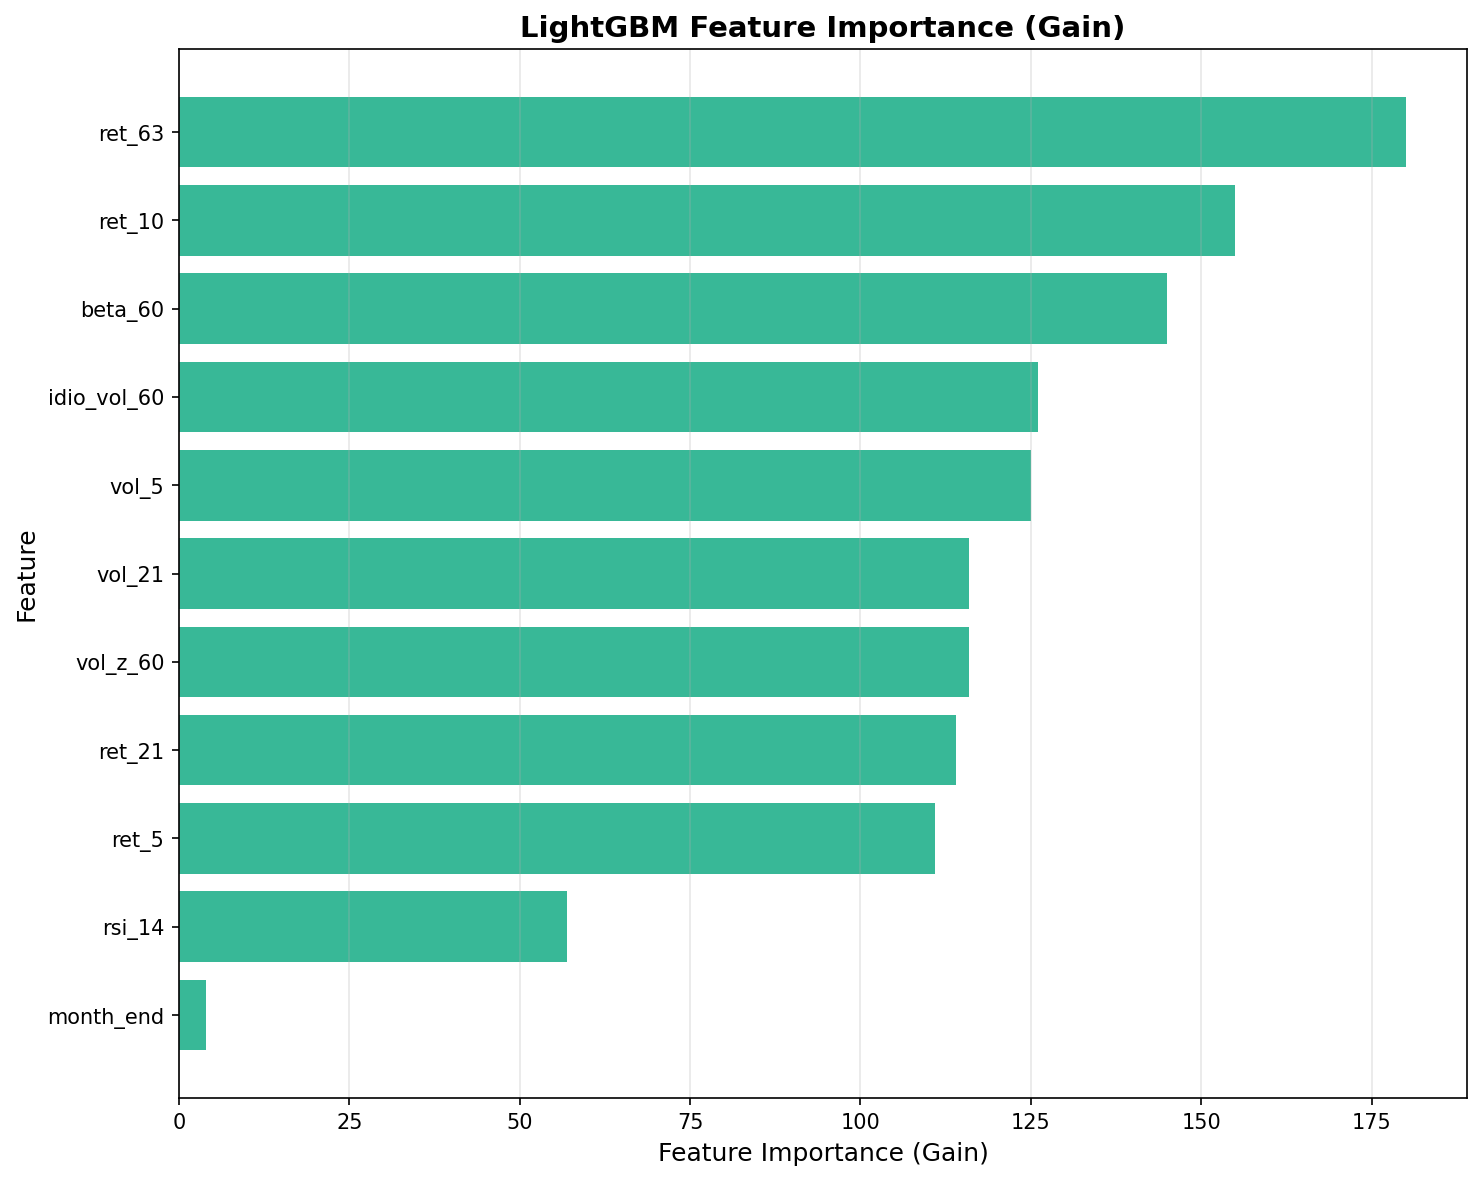
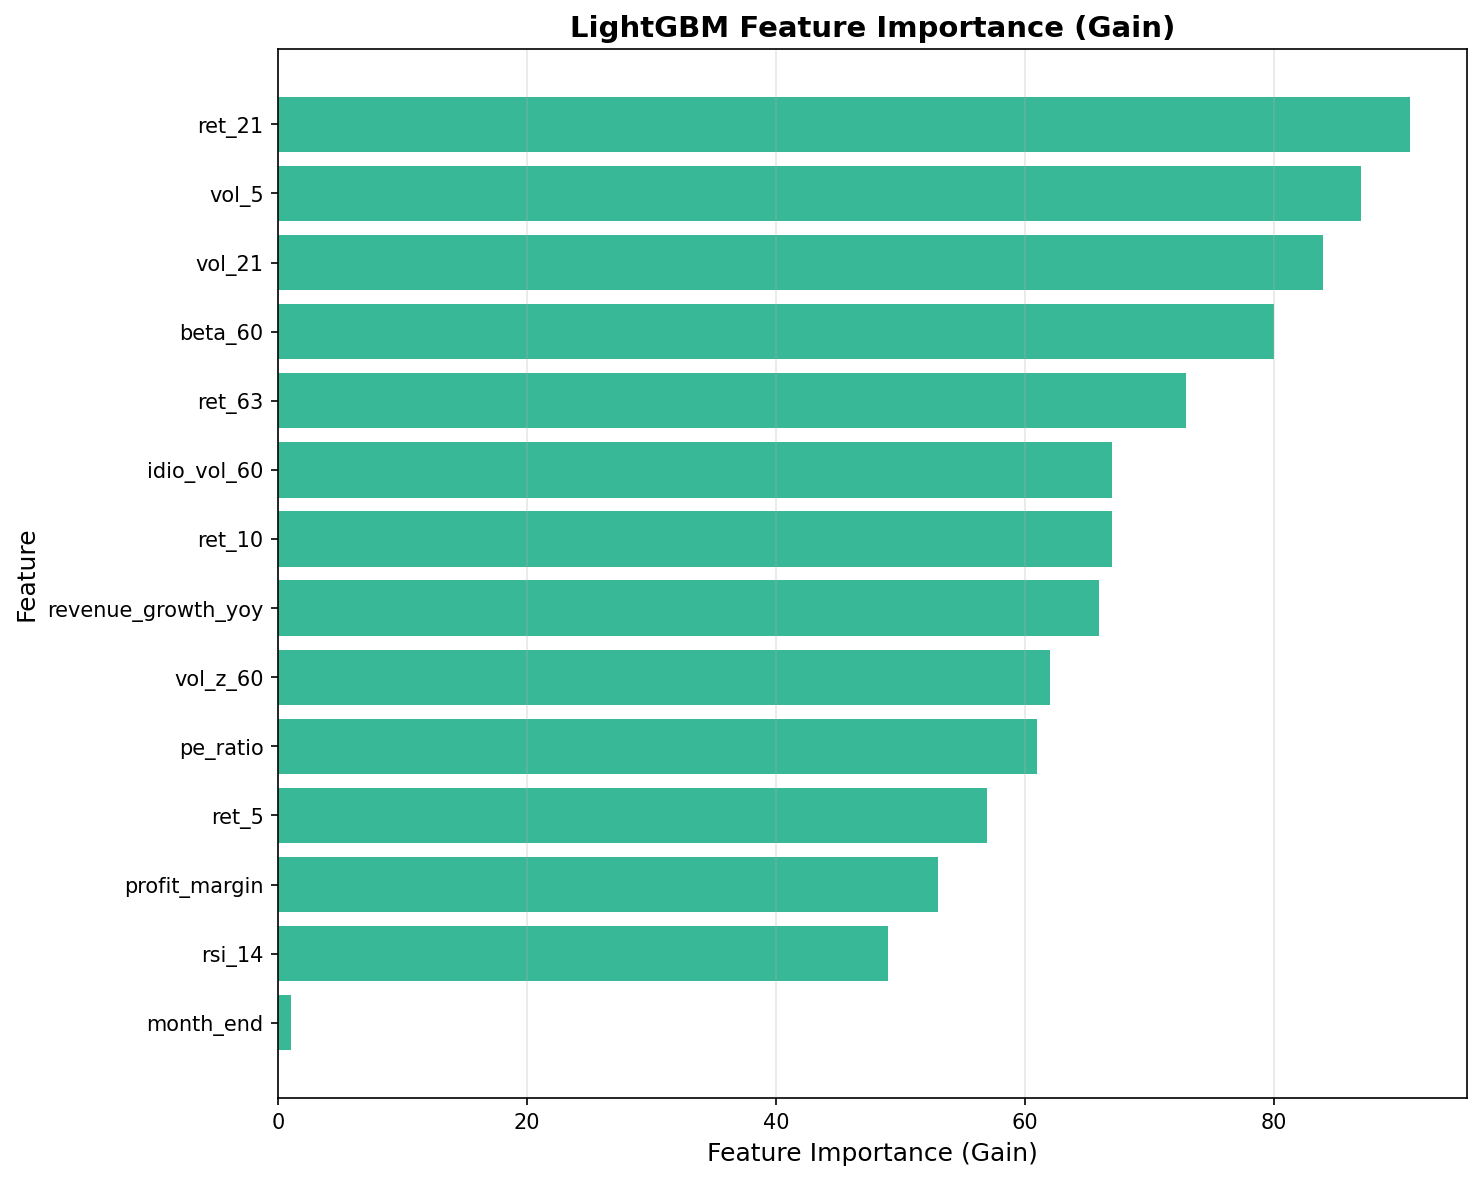
feat(features): add real fundamental data from yfinance

diff --git a/src/features/fundamentals.py b/src/features/fundamentals.py
@@ -1,60 +1,151 @@
 import pandas as pd
-from pathlib import Path
+import numpy as np
+import yfinance as yf
+from datetime import datetime, timedelta
 
-def load_fundamentals_csv(path):
+def download_fundamentals(tickers, start_date, end_date):
     """
-    Load fundamentals CSV if it exists. Returns empty DataFrame if not.
-    Expeceted columns: data, ticker, gm, om, rev_ttm_yoy, eps_ttm_yoy, market_cap
+    Download quarterly fundamental data from Yahoo Finance.
+    Returns: DataFrame with P/E, profit margin, revenue growth per ticker per quarter
     """
+    print(f"Downloading fundamentals for {len(tickers)} tickers...")
 
-    if not path.exists():
-        return pd.DataFrame()   # Return empty if no fundamentals file
+    all_fundamentals = []
     
-    df = pd.read_csv(path, parse_dates = ['date'])
-    return df[['date', 'ticker', 'gm', 'om', 'rev_ttm_yoy', 'eps_ttm_yoy', 'market_cap']]
-
-def align_fundamentals_to_prices(fund_df, daily_index, tickers):
-    """
-    Forward-fill fundamentals onto daily price grid.
-    Fundamentals are reported quarterly but we need them daily.
-    """
-
-    if fund_df.empty:
-        # No fundamentals: return empty DataFrame with correct structure
-        return pd.DataFrame(index=pd.MultiIndex.from_product(
-            [daily_index, tickers], names = ['date', 'ticker']))
+    for i, ticker in enumerate(tickers):
+        if (i + 1) % 10 == 0:
+            print(f"Progress: {i+1}/{len(tickers)} tickers...")
         
-    # Set MultiIndex (date, ticker) and sort
-    fund_df = fund_df.set_index(['date', 'ticker']).sort_index()
+        try:
+            # Download stock data
+            stock = yf.Ticker(ticker)
+            
+            # Get quarterly financials (income statement and balance sheet)
+            quarterly_financials = stock.quarterly_financials
+            quarterly_balance = stock.quarterly_balance_sheet
+            
+            if quarterly_financials is None or quarterly_balance.empty:
+                continue
+            
+            # Get quarterly info (has trailing P/E)
+            info = stock.info
+            
+            # Extract key metrics for each available quarter
+            for date in quarterly_financials.columns:
+                # Get revenue and net income
+                revenue = quarterly_financials.loc['Total Revenue', date] if 'Total Revenue' in quarterly_financials.index else np.nan
+                net_income = quarterly_financials.loc['Net Income', date] if 'Net Income' in quarterly_financials.index else np.nan
+                
+                # Calculate profit margin = net income / revenue
+                profit_margin = (net_income / revenue) if (revenue and not pd.isna(revenue) and revenue != 0) else np.nan
 
-    # Forward-fill by ticker: each ticker's fundamentals stay constant until next report
-    fund_df = fund_df.groupby(level = 'ticker').ffill()
+                # For revenue growth, we need to compare to same quarter last year (YoY)
+                # Find the date 4 quarters ago (1 year)
+                try:
+                    dates_list = list(quarterly_financials.columns)
+                    current_idx = dates_list.index(date)
+                    
+                    # Get revenue from 4 quarters ago (year-over-year comparison)
+                    if current_idx + 4 < len(dates_list):
+                        prev_year_date = dates_list[current_idx + 4]
+                        prev_revenue = quarterly_financials.loc['Total Revenue', prev_year_date] if 'Total Revenue' in quarterly_financials.index else np.nan
+                        
+                        # Calculate YoY revenue growth rate
+                        revenue_growth = (revenue - prev_revenue) / prev_revenue if (prev_revenue and not pd.isna(prev_revenue) and prev_revenue != 0) else np.nan
+                    else:
+                        revenue_growth = np.nan
+                except:
+                    revenue_growth = np.nan
+                
+                # Get P/E ratio from stock info (trailing 12 months)
+                pe_ratio = info.get('trailingPE', np.nan) if info else np.nan
 
-    #Reindex to match daily price grid (will have NaNs for dates before first report)
-    return fund_df.reindex(
-        pd.MultiIndex.from_product([daily_index, tickers], names = ['date', 'ticker']))
-
-
-def build_fundamental_features(fund_df):
-    """
-    Normalize fundamental features using same cross-sectional z-score approach.
-    """
-
-    if fund_df.empty:
-        return fund_df
+                # Store the data point
+                all_fundamentals.append({
+                    'date': pd.to_datetime(date),
+                    'ticker': ticker,
+                    'profit_margin': profit_margin,
+                    'revenue_growth_yoy': revenue_growth,
+                    'pe_ratio': pe_ratio
+                })
+        
+        except Exception as e:
+            # If download fails for this ticker, skip it
+            print(f"Could not download {ticker}: {str(e)[:50]}")
+            continue
     
-    # Select numeric columns and apply per-date winsorization + z-score
-    numeric_cols = ['gm', 'om', 'rev_ttm_yoy', 'eps_ttm_yoy', 'market_cap']
+    # Convert to DataFrame
+    fundamentals_df = pd.DataFrame(all_fundamentals)
+    
+    if fundamentals_df.empty:
+        print("No fundamental data downloaded")
+        return pd.DataFrame()
+    
+    # Force convert all numeric columns to float (fixes "object" dtype issue)
+    numeric_cols = ['profit_margin', 'revenue_growth_yoy', 'pe_ratio']
     for col in numeric_cols:
-        if col in fund_df.columns:
-            # Per-date winsorization
-            lower = fund_df.groupby(level = 'date')[col].transform(lambda x: x.quantile(0.01))
-            upper = fund_df.groupby(level = 'date')[col].transform(lambda x: x.quantile(0.99))
-            fund_df[col] = fund_df[col].clip(lower = lower, upper = upper)
+        fundamentals_df[col] = pd.to_numeric(fundamentals_df[col], errors='coerce')
+    
+    # Drop rows where ALL fundamentals are NaN
+    fundamentals_df = fundamentals_df.dropna(subset=numeric_cols, how='all')
+    
+    print(f"Downloaded {len(fundamentals_df)} fundamental data points")
+    return fundamentals_df
 
-            # Per-date z-score
-            mean = fund_df.groupby(level = 'date')[col].transform('mean')
-            std = fund_df.groupby(level = 'date')[col].transform('std')
-            fund_df[col] = (fund_df[col] - mean) / (std + 1e-9)
 
-    return fund_df
+def align_fundamentals_to_prices(fundamentals_df, daily_index, tickers):
+    """
+    Forward-fill quarterly fundamentals to daily frequency.
+    Each day uses the most recent available fundamental data.
+    """
+    if fundamentals_df.empty:
+        return pd.DataFrame()
+    
+    # Create MultiIndex for daily data
+    idx = pd.MultiIndex.from_product([daily_index, tickers], names=['date', 'ticker'])
+    
+    # Initialize empty DataFrame
+    aligned = pd.DataFrame(index=idx, columns=['profit_margin', 'revenue_growth_yoy', 'pe_ratio'], dtype=float)
+    
+    # For each ticker, forward-fill from quarterly to daily
+    for ticker in tickers:
+        ticker_data = fundamentals_df[fundamentals_df['ticker'] == ticker].copy()
+        
+        if ticker_data.empty:
+            continue
+        
+        # Set date as index and sort
+        ticker_data = ticker_data.set_index('date').sort_index()
+        
+        # Reindex to daily frequency with forward fill
+        daily_data = ticker_data.reindex(daily_index, method='ffill')
+        
+        # Assign to aligned DataFrame
+        for col in ['profit_margin', 'revenue_growth_yoy', 'pe_ratio']:
+            aligned.loc[(slice(None), ticker), col] = daily_data[col].values
+    
+    # Ensure all columns are float type
+    aligned = aligned.astype(float)
+    
+    return aligned
+
+
+def build_fundamental_features(fundamentals_df):
+    """
+    Cross-sectional normalization of fundamental features.
+    Same approach as price features: winsorize + z-score per date.
+    """
+    if fundamentals_df.empty:
+        return pd.DataFrame()
+    
+    # Use the same normalization function from price features
+    from src.features.price import xsection_normalize
+    
+    normalized = xsection_normalize(fundamentals_df)
+    
+    return normalized
+
+
+
+
+

diff --git a/run.py b/run.py
@@ -6,7 +6,7 @@ from lightgbm import LGBMRegressor
 
 from src.data.loaders import load_universe, load_prices_volume
 from src.features.price import build_price_features, build_labels, xsection_normalize
-from src.features.fundamentals import load_fundamentals_csv, align_fundamentals_to_prices, build_fundamental_features
+from src.features.fundamentals import download_fundamentals, align_fundamentals_to_prices, build_fundamental_features
 from src.features.calendar_features import build_calendar_features
 from src.modeling.lgbm import train_predict_walkforward
 from src.backtest.engine import weekly_rebalance_dates, build_sector_neutral_weights, backtest_portfolio
@@ -52,17 +52,22 @@ def main():
 
     print(f"Rebalance dates: {len(rebal_dates)} Fridays")
     
-    # Load fundamentals (if file exists)
-    print("\n[4/7] Loading fundamentals...")
-    fund_path = BASE / "data" / "fundamentals.csv"
-    if fund_path.exists():
-        fund = load_fundamentals_csv(fund_path)
+    # Download and integrate fundamental features
+    print("\n[4/7] Downloading fundamental features...")
+    from src.features.fundamentals import download_fundamentals, align_fundamentals_to_prices, build_fundamental_features
+    
+    fund = download_fundamentals(tickers, start, end)
+    
+    if not fund.empty:
         fund = align_fundamentals_to_prices(fund, prices.index, tickers)
         fund = build_fundamental_features(fund)
-        feat = pd.concat([feat, fund], axis=1)  # CHANGED: use concat
-        print(f"Added fundamental features")
+        
+        # Merge with existing features
+        feat = pd.concat([feat, fund], axis=1)
+        print(f"Added {len(fund.columns)} fundamental features: {list(fund.columns)}")
     else:
-        print(f"No fundamentals.csv found, skipping")
+        print(f"No fundamental data available, continuing with price features only")
+
     
     # Calendar features
     print("\n[5/7] Building calendar features...")
@@ -75,7 +80,7 @@ def main():
     feat = xsection_normalize(feat)
     
     # Align features and labels to rebalance dates only
-    print(f"\n  Aligning to rebalance dates...")
+    print(f"\n Aligning to rebalance dates...")
     feat_rebal = feat.loc[feat.index.get_level_values(0).isin(rebal_dates)].copy()
     labels_rebal = labels.loc[labels.index.get_level_values(0).isin(rebal_dates)].copy()
 
